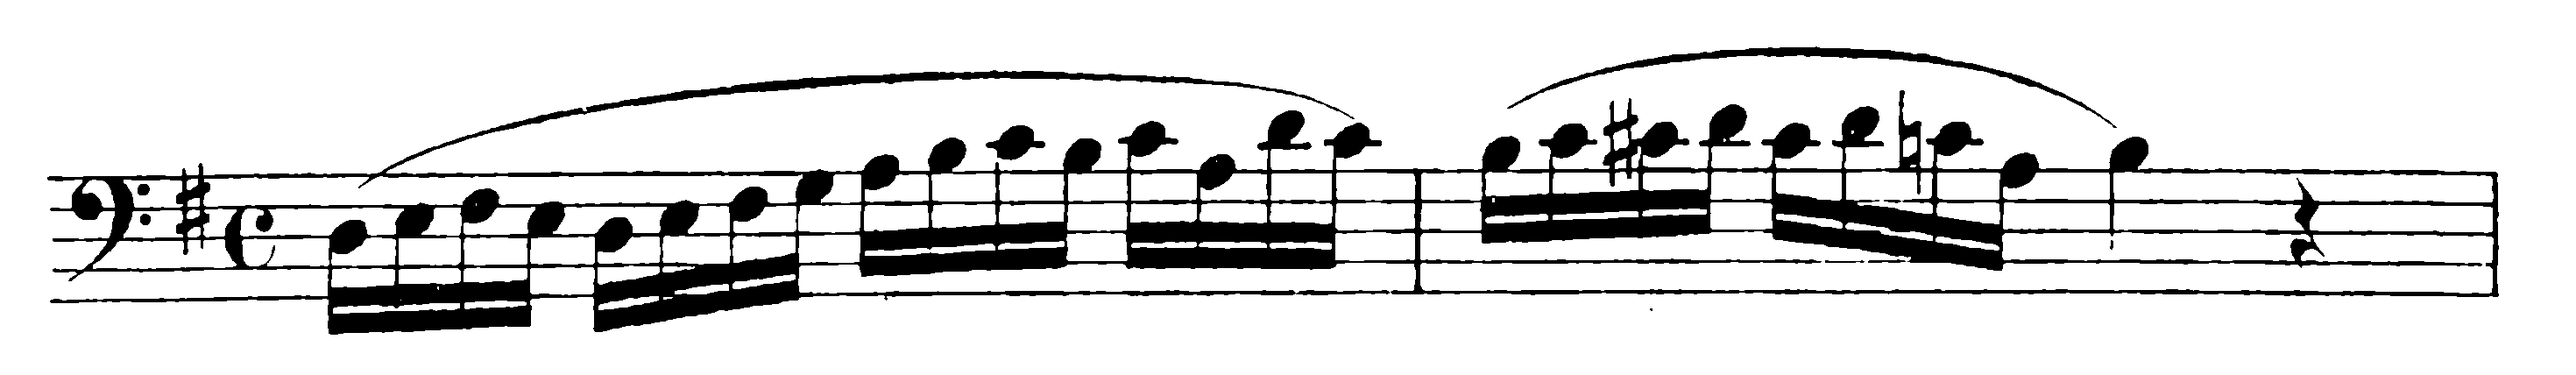
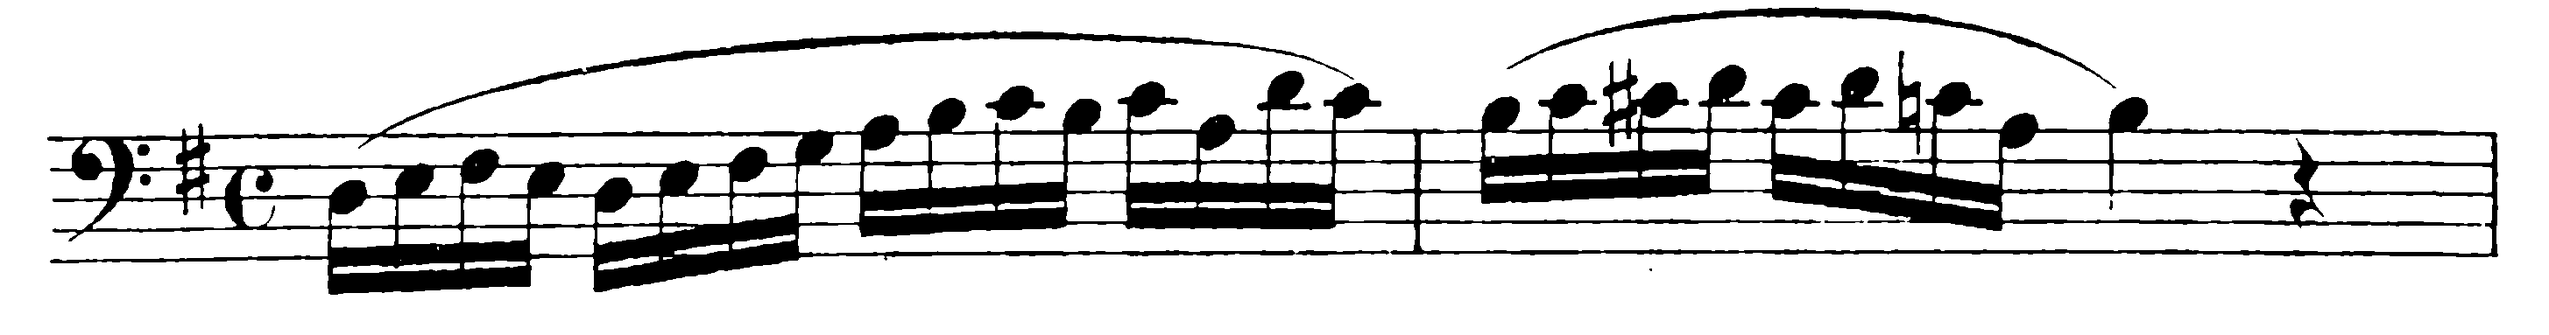
missing items

diff --git a/text/s1_a10.md b/text/s1_a10.md
@@ -6,16 +6,16 @@ section_title: First Position
 ---
 
 The connection of several notes on a bow, the so-called slur, should not really add anything new to the rules for bowing. Each slur or group of notes with the sign 
-{% include illustration-inline.html alt="" img="missing" %}
+{% include illustration-inline.html alt="" img="davidoff-017-slur.png" img-style="max-height: 2em;" %}
 means, more or less, a long, held note. All combinations of slurred and unslurred notes fall into the simple bowing patterns that the player will recognize from Article VII. We have illustrated this in the following exercises showing the upper line in small note values.
 
 And yet, the beginner, who can play with a melodious tone in familiar passages, forfeits much of it as soon as he has to perform faster figures. A figure such as this:
 
-{% include illustration.html alt="" img="davidoff-017-01.png" %}
+{% include illustration.html alt="" img="davidoff-017-01.png" img-style="max-height: 4.5em;" %}
 
 requires nothing more from the bow than this: 
 
-{% include illustration.html alt="" img="davidoff-017-02.png" %}
+{% include illustration.html alt="" img="davidoff-017-02.png" img-style="max-height: 4.5em;" %}
 
 In reality, however, the player will make a less-good tone in the first example.
 
@@ -71,7 +71,7 @@ The following examples are only notated on one string, but the learner should pe
 (Can also be played on the G- and D-strings and on the C- and G-strings, following the established rules for bow speed.)
 {:.text-center }
 
-{% include illustration.html alt="" img="missing(davidoff-021-02.png)" %}
+{% include illustration.html alt="" img="davidoff-021-02.png" %}
 
 ## Exercises for String Crossing in Combinations of Slurred and Separate Bows.
 
